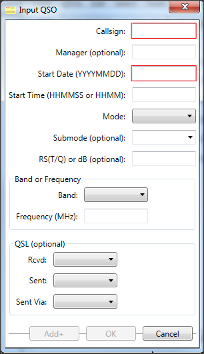
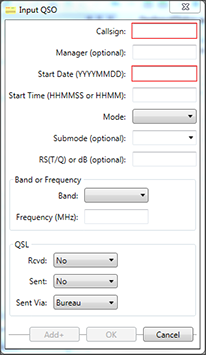
In QsoInputDialog, set initial QSL Sent value to "No", initial QSL Rcvd value to "No", and the initial QSL Sent Via value to "Bureau". Updated user manual to document these changes. This completes changes required for issue #137.

diff --git a/hamqsler/QsoInputDialog.xaml b/hamqsler/QsoInputDialog.xaml
@@ -230,7 +230,7 @@
 			</Grid>
 		</GroupBox>
 		<GroupBox Grid.Row="8" Grid.Column="0" Grid.ColumnSpan="2" Margin="5"
-				Header="QSL (optional)">
+				Header="QSL">
 			<Grid>
 				<Grid.ColumnDefinitions>
 					<ColumnDefinition Width="Auto"/>

diff --git a/hamqsler/QsoInputData.cs b/hamqsler/QsoInputData.cs
@@ -113,7 +113,7 @@ namespace hamqsler
 		
 		private static readonly DependencyProperty RcvdProperty =
 			DependencyProperty.Register("Rcvd", typeof(string), typeof(QsoInputData),
-			                            new PropertyMetadata(string.Empty));
+			                            new PropertyMetadata("No"));
 		public string Rcvd
 		{
 			get {return (string)GetValue(RcvdProperty);}
@@ -122,7 +122,7 @@ namespace hamqsler
 		
 		private static readonly DependencyProperty SentProperty =
 			DependencyProperty.Register("Sent", typeof(string), typeof(QsoInputData),
-			                            new PropertyMetadata(string.Empty));
+			                            new PropertyMetadata("No"));
 		public string Sent
 		{
 			get {return (string)GetValue(SentProperty);}
@@ -131,7 +131,7 @@ namespace hamqsler
 		
 		private static readonly DependencyProperty SentViaProperty =
 			DependencyProperty.Register("SentVia", typeof(string), typeof(QsoInputData),
-			                            new PropertyMetadata(string.Empty));
+			                            new PropertyMetadata("Bureau"));
 		public string SentVia
 		{
 			get {return (string)GetValue(SentViaProperty);}

diff --git a/hamqsler/QsoWithInclude.cs b/hamqsler/QsoWithInclude.cs
@@ -113,7 +113,7 @@ namespace hamqsler
 						status = "Ignore";
 						break;
 					default:
-						status = sent;
+						status = "No";
 						break;
 				}
 				return status;
@@ -143,11 +143,8 @@ namespace hamqsler
 					case "I":
 						retValue = "Ignore";
 						break;
-					case "":
-						retValue = string.Empty;
-						break;
 					default:
-						retValue = "***";
+						retValue = "No";
 						break;
 				}
 				return retValue;
